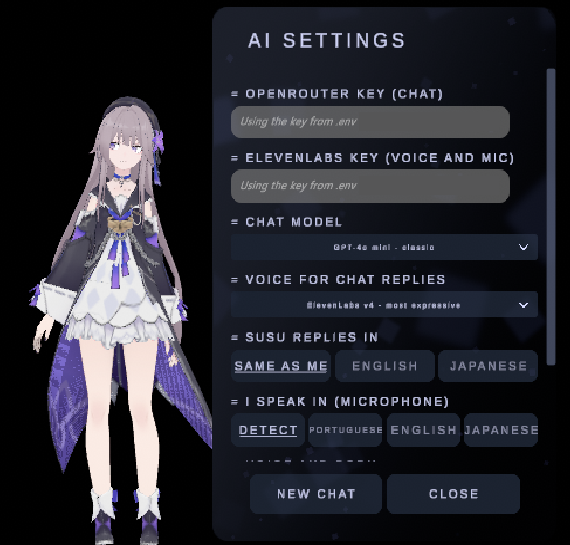
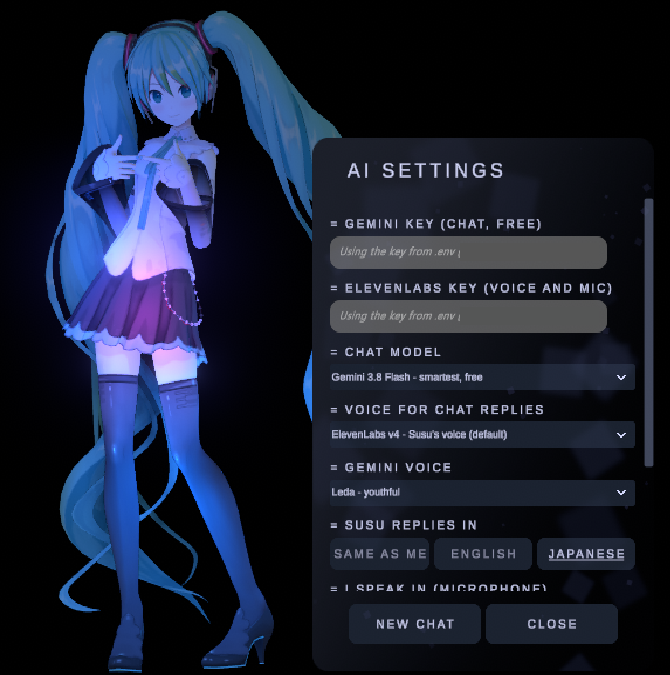
Susu as the Susume Nihongo study buddy, Gemini quota warnings, 1.2.0
- Susu's persona now presents her as the study buddy from Susume Nihongo:
  level-aware teaching, gentle corrections, one-question quizzes and pointers
  to the app's Book, Flashcards, quizzes, Sensei and JLPT practice.
- When a Gemini free-tier quota runs out (chat, voice or microphone) the chat
  shows a warning that says whether it is the daily or per-minute limit and
  what to do.
- README: Susume Nihongo section and the new features; new AI settings image.
- Release build version 1.2.0.

diff --git a/Assets/MateSusu/Scripts/GeminiQuota.cs b/Assets/MateSusu/Scripts/GeminiQuota.cs
@@ -1,0 +1,69 @@
+using System;
+using System.Text.RegularExpressions;
+using UnityEngine;
+
+/// <summary>
+/// Recognises Gemini's "quota exceeded" answers (HTTP 429 / RESOURCE_EXHAUSTED, common on the free tier) and turns
+/// them into a short, friendly warning that says which limit was hit and what to do. The chat window shows it.
+/// </summary>
+public static class GeminiQuota
+{
+    public enum Service { Chat, Voice, Microphone }
+
+    /// <summary>Raised with the warning text whenever a quota is reached (at most once a minute per service and kind).</summary>
+    public static event Action<Service, string> Reached;
+
+    static readonly Regex RetryDelay = new Regex("\"retryDelay\"\\s*:\\s*\"(\\d+(?:\\.\\d+)?)s\"", RegexOptions.Compiled);
+    static string lastKey;
+    static float lastAt = -999f;
+
+    public static bool IsQuotaError(long httpCode, string body) =>
+        httpCode == 429 || (!string.IsNullOrEmpty(body) && body.Contains("RESOURCE_EXHAUSTED"));
+
+    /// <summary>Builds the warning, logs it and raises <see cref="Reached"/>. Returns the warning text.</summary>
+    public static string Report(Service service, string model, string body)
+    {
+        string message = Describe(service, model, body, out string kind);
+        Debug.LogWarning("[Gemini quota] " + message);
+
+        string key = service + kind;
+        if (key != lastKey || Time.unscaledTime - lastAt > 60f)
+        {
+            lastKey = key;
+            lastAt = Time.unscaledTime;
+            Reached?.Invoke(service, message);
+        }
+        return message;
+    }
+
+    /// <summary>The warning text for a quota error body. <paramref name="kind"/> is "day", "minute" or "other".</summary>
+    public static string Describe(Service service, string model, string body, out string kind)
+    {
+        body = body ?? "";
+        string what = service == Service.Chat ? "chat" : service == Service.Voice ? "voice" : "microphone";
+        string name = string.IsNullOrWhiteSpace(model) ? "this model" : model;
+        string alternative = service == Service.Voice
+            ? "choose the ElevenLabs voice in AI settings"
+            : service == Service.Microphone
+                ? "add an ElevenLabs key in AI settings to transcribe with it"
+                : "pick another chat model in AI settings";
+
+        if (body.IndexOf("PerDay", StringComparison.OrdinalIgnoreCase) >= 0)
+        {
+            kind = "day";
+            return $"Gemini's free daily limit for {name} ({what}) is used up. It resets at midnight Pacific time; meanwhile you can {alternative}.";
+        }
+
+        var retry = RetryDelay.Match(body);
+        bool perMinute = body.IndexOf("PerMinute", StringComparison.OrdinalIgnoreCase) >= 0;
+        if (perMinute || retry.Success)
+        {
+            kind = "minute";
+            int seconds = retry.Success ? Mathf.CeilToInt(float.Parse(retry.Groups[1].Value, System.Globalization.CultureInfo.InvariantCulture)) : 60;
+            return $"Too many Gemini requests for {name} ({what}): the free per-minute limit was reached. Try again in about {seconds} seconds.";
+        }
+
+        kind = "other";
+        return $"Gemini's free quota for {name} ({what}) was reached. Wait a little and try again, or {alternative}.";
+    }
+}

diff --git a/Assets/MateSusu/Scripts/SusuChatWindow.cs b/Assets/MateSusu/Scripts/SusuChatWindow.cs
@@ -29,6 +29,7 @@ public class SusuChatWindow : MonoBehaviour
     static readonly Color MineColor = new Color(0.47f, 0.37f, 0.98f, 0.92f);
     static readonly Color HersColor = new Color(1f, 1f, 1f, 0.11f);
     static readonly Color ErrorColor = new Color(0.95f, 0.35f, 0.4f, 0.35f);
+    static readonly Color WarningColor = new Color(1f, 0.72f, 0.2f, 0.32f); // quota and other notices
     static readonly Color ListeningColor = new Color(1f, 0.3f, 0.36f, 1f);
     static readonly Color BusyColor = new Color(1f, 0.78f, 0.25f, 1f);
     static readonly Color IdleColor = new Color(1f, 1f, 1f, 0.9f);
@@ -76,6 +77,7 @@ public class SusuChatWindow : MonoBehaviour
             mic.Problem -= Flash;
         }
         SusuAiSettings.Changed -= UpdateEmptyHint;
+        GeminiQuota.Reached -= OnQuotaReached;
         if (Instance == this) Instance = null;
     }
 
@@ -209,8 +211,20 @@ public class SusuChatWindow : MonoBehaviour
 
     void Fail(Message m, string error)
     {
-        if (m.background != null) m.background.color = ErrorColor;
+        bool quota = SusuChat.Instance != null && SusuChat.Instance.LastErrorWasQuota;
+        if (m.background != null) m.background.color = quota ? WarningColor : ErrorColor;
         SetText(m, error);
+    }
+
+    /// <summary>Gemini voice or microphone ran out of free quota: tell the user in the chat (the chat's own quota
+    /// errors already show up in the reply bubble).</summary>
+    void OnQuotaReached(GeminiQuota.Service service, string message)
+    {
+        if (service == GeminiQuota.Service.Chat || window == null) return;
+        var m = Add(message, false);
+        if (m.background != null) m.background.color = WarningColor;
+        stickToBottom = true;
+        if (!IsOpen) Flash(message);
     }
 
     /// <summary>Forgets the conversation: empties the window and the context sent to the model.</summary>
@@ -463,6 +477,7 @@ public class SusuChatWindow : MonoBehaviour
             mic.Problem += Flash;
         }
         SusuAiSettings.Changed += UpdateEmptyHint;
+        GeminiQuota.Reached += OnQuotaReached;
         UpdateEmptyHint();
 
         Debug.Log("[SusuChat] Chat window ready.");

diff --git a/Assets/MateSusu/Scripts/SusuChat.cs b/Assets/MateSusu/Scripts/SusuChat.cs
@@ -36,6 +36,8 @@ public class SusuChat : MonoBehaviour
     /// <summary>True when there is a key to chat with.</summary>
     public bool HasKey => !string.IsNullOrEmpty(ApiKey);
     public bool IsBusy => current != null;
+    /// <summary>True when the last failed message failed because a Gemini quota was used up.</summary>
+    public bool LastErrorWasQuota { get; private set; }
 
     void Awake()
     {
@@ -106,6 +108,7 @@ public class SusuChat : MonoBehaviour
     IEnumerator ChatRoutine(string message, string systemPrompt, Action<string> onPartial, Action<string> onComplete, Action<string> onError)
     {
         model = SusuAiSettings.ChatModel; // may have been changed in the AI window since the last message
+        LastErrorWasQuota = false;
 
         var contents = new List<OutContent>();
         int start = Mathf.Max(0, history.Count - historyLimit);
@@ -144,6 +147,12 @@ public class SusuChat : MonoBehaviour
             if (req.result != UnityWebRequest.Result.Success || handler.Error != null)
             {
                 string err = handler.Error ?? ExtractError(handler.RawText) ?? req.error;
+                if (GeminiQuota.IsQuotaError(req.responseCode, handler.RawText + " " + handler.Error))
+                {
+                    LastErrorWasQuota = true;
+                    onError?.Invoke(GeminiQuota.Report(GeminiQuota.Service.Chat, model, handler.RawText + " " + handler.Error));
+                    yield break;
+                }
                 Debug.LogWarning($"[SusuChat] Gemini failed ({req.responseCode}): {err}");
                 onError?.Invoke(err);
                 yield break;

diff --git a/Assets/MateSusu/Scripts/SusuChatMic.cs b/Assets/MateSusu/Scripts/SusuChatMic.cs
@@ -241,7 +241,12 @@ public class SusuChatMic : MonoBehaviour
             request = null;
 
             string body = req.downloadHandler.text;
-            if (req.result != UnityWebRequest.Result.Success) { onError?.Invoke($"{req.responseCode} {req.error} {Short(body)}"); yield break; }
+            if (req.result != UnityWebRequest.Result.Success)
+            {
+                if (GeminiQuota.IsQuotaError(req.responseCode, body)) GeminiQuota.Report(GeminiQuota.Service.Microphone, geminiModel, body);
+                onError?.Invoke($"{req.responseCode} {req.error} {Short(body)}");
+                yield break;
+            }
             GeminiReply reply = null;
             try { reply = JsonUtility.FromJson<GeminiReply>(body); } catch (Exception) { }
             if (reply?.candidates == null || reply.candidates.Length == 0 || reply.candidates[0].content?.parts == null)

diff --git a/Assets/MateSusu/Scripts/SusuTTS.cs b/Assets/MateSusu/Scripts/SusuTTS.cs
@@ -283,6 +283,11 @@ public class SusuTTS : MonoBehaviour
                     geminiLegacyShape = true;
                     continue;
                 }
+                if (GeminiQuota.IsQuotaError(code, answer))
+                {
+                    onError?.Invoke(GeminiQuota.Report(GeminiQuota.Service.Voice, geminiModel, answer));
+                    yield break;
+                }
                 string err = $"TTS failed ({code}): {Short(answer)}";
                 Debug.LogWarning("[Gemini TTS] " + err);
                 onError?.Invoke(err);

diff --git a/Assets/MateSusu/Editor/SusuReleaseBuild.cs b/Assets/MateSusu/Editor/SusuReleaseBuild.cs
@@ -16,7 +16,7 @@ using UnityEngine;
 /// </summary>
 public static class SusuReleaseBuild
 {
-    public const string Version = "1.1.0";
+    public const string Version = "1.2.0";
     const string ExeName = "MateSusu.exe";
 
     [MenuItem("Tools/MateSusu/Build Windows Release")]

diff --git a/README.md b/README.md
@@ -1,8 +1,13 @@
 # MateSusu
 
-**MateSusu** is a fork of [Mate Engine](https://github.com/shinyflvre/Mate-Engine) that turns the desktop pet into
-**Susu**, a little companion who talks (in Japanese, with a real voice), chats with you through an LLM, listens
-to your microphone and moves around with ready-made humanoid animations.
+**MateSusu** turns the [Mate Engine](https://github.com/shinyflvre/Mate-Engine) desktop pet into **Susu**, a little
+companion who lives on your screen, talks in Japanese with a real voice, chats with you through Google Gemini,
+listens to your microphone and moves with ready-made animations.
+
+Susu is the study buddy from **[Susume Nihongo](https://susumenihongo.app/)** (進め日本語), the free Japanese learning
+app. MateSusu brings her to your desktop: she keeps you company while you work, teaches you a phrase, quizzes you,
+corrects your Japanese gently and reminds you to keep going. Learn with the Study Book, flashcards and quizzes on
+Susume Nihongo, then practise every day with Susu on your desktop.
 
 **[Download the latest Windows release](https://github.com/klysman08/Mate-Engine/releases/latest)** · everything
 below this section is the original Mate Engine README.
@@ -13,12 +18,23 @@ below this section is the original Mate Engine README.
 | **Voices** | **Auto-talk text over her head** |
 | ![Voices window](docs/matesusu/voices.png) | ![Japanese text over Susu's head](docs/matesusu/balloon.png) |
 
-### What is new
+### Your Japanese study buddy
+
+- **Ask about any word or phrase** and Susu gives you the expression, its reading, the meaning and a tiny example.
+- **Write to her in Japanese**: she praises the try, then gives you the corrected sentence and a short reason.
+- **"Quiz me!"**: one question at a time (vocabulary, kana, kanji, grammar), with cheers or a gentle correction.
+- She keeps it at your level (JLPT N5–N4 by default), mixes in real-life usage and culture, and points you to the
+  right part of Susume Nihongo (Study Book, Flashcards, quizzes, Sensei, JLPT practice) when it helps.
+- A **Japanese phrase deck** in the Voices window: each phrase is spoken with its card (phrase, romaji, meaning).
+- Choose the language **Susu replies in**: write in Portuguese or English and get the answer in Japanese, or let her
+  follow you.
+- The same free **Gemini API key** from Google AI Studio works for both Susume Nihongo and MateSusu.
+
+### Features
 
 **Voice lines** (radial menu → *Voices*)
 - 120+ pre-recorded Japanese lines in one ElevenLabs voice: greetings, breaks and health, study and work, cheering,
-  sweet talk, stories, "About Susu", plus a **Japanese phrase deck** (phrase, romaji and meaning shown as a card).
-- Every line has a matching body motion, and its words are shown as a subtitle in the window.
+  sweet talk, stories, "About Susu" and the Japanese phrase deck, each with matching motions and a subtitle.
 - **Susu talks by herself** every few minutes, and what she says follows the clock: morning, midday, afternoon,
   evening and night favour different topics; meals, greetings and good-nights are said once a day; opening the app
   after a while gets a "good morning" / "welcome back" / "long time no see"; she talks less after midnight.
@@ -26,41 +42,36 @@ below this section is the original Mate Engine README.
 - Lines she says by herself also float **over her head** in Japanese, with a soft shadow.
 
 **Chat** (radial menu → *Chat*)
-- A new chat window: bubbles, a text box, **microphone** (speak, it stops on silence, transcribes and sends) and a
+- Chat window with bubbles, a text box, a **microphone** (speak, it stops on silence, transcribes and sends) and a
   **new chat** button that forgets the conversation.
-- Replies come from **Google Gemini** (free API key from Google AI Studio, no credit card) and are read aloud with
-  Susu's voice. The local LLM was removed.
+- Replies come from **Google Gemini** (free API key, no credit card) and are read aloud with Susu's voice.
 
 **AI settings** (radial menu → *AI*)
 - Paste your **Gemini** and **ElevenLabs** API keys in the app (stored encrypted for your Windows user).
-- Pick the **chat model** (Gemini 3.8 Flash, 3.6 Flash, 3.5 Flash-Lite, 3.1 Flash-Lite, all on the free tier) and the
-  **voice** for replies: ElevenLabs v4 / v4 Turbo (Susu's own voice, default) or Gemini TTS (free) with a choice of
-  Gemini voices.
-- Fix the language **Susu replies in** (write in Portuguese or English, she answers in Japanese) and the language
-  you speak into the microphone.
+- Pick the **chat model** (Gemini 3.8 Flash, 3.6 Flash, 3.5 Flash-Lite, 3.1 Flash-Lite, all on the free tier).
+- Pick the **voice** for replies: ElevenLabs v4 / v4 Turbo (Susu's own voice, default) or **Gemini TTS** (free) with
+  a choice of Gemini voices.
+- Set the language Susu replies in and the language you speak into the microphone.
 - Switch spoken replies, the text over her head and idle motions on or off.
-
-**Models** (radial menu → *Models*)
-- Every VRM in the `SusuModels` folder shows up ready in the Models menu on first launch.
-
-**Custom dances**
-- While Susu performs a custom dance (Dance Player) she neither talks nor plays her own motions, so the dance is
-  never interrupted.
 
 **Motions**
 - Ready-made humanoid clips (KAWAII ANIMATIONS 100, Rokoko mocap, Quaternius UAL2, EmoteBox) played on top of the
   Mate Engine animator.
 - Every voice line has one or more matching motions: a talking gesture followed by a reaction (bow, shy, laugh,
   thumbs up, cheer...).
-- 30 calm **idle motions** (breathing, looking around, stretching, crossing her legs, cute poses...) between lines,
-  so she does not loop the same few idles.
+- Calm **idle motions** (breathing, looking around, stretching, crossing her legs, cute poses...) between lines.
+- **Custom dances** are never interrupted: while one plays, Susu neither talks nor plays her own motions.
+
+**Models** (radial menu → *Settings* → *Models*)
+- Every VRM in the `SusuModels` folder shows up ready in the Models menu on first launch.
 
 ### Setup
 
 1. Download the zip from [Releases](https://github.com/klysman08/Mate-Engine/releases/latest), unzip it and run `MateSusu.exe`.
 2. Right-click the avatar → **AI** and paste your keys:
-   - [Gemini](https://aistudio.google.com/apikey) — chat (free), and optionally the Gemini voices and microphone.
-   - [ElevenLabs](https://elevenlabs.io/app/settings/api-keys) — Susu's voice in chat and microphone transcription.
+   - [Gemini](https://aistudio.google.com/apikey) — chat (free, no credit card), and optionally the Gemini voices
+     and microphone. If you already use Susume Nihongo with Gemini, it is the same key.
+   - [ElevenLabs](https://elevenlabs.io/app/settings/api-keys) — Susu's own voice in chat and microphone transcription.
    The pre-recorded voice lines work without any key.
 3. Optional: rename `env.example.txt` to `.env` next to the exe to set everything in a file (see [`.env.example`](.env.example)).
 
@@ -68,14 +79,16 @@ below this section is the original Mate Engine README.
 
 Unity **6000.2.6f2**. Open the project, then **Tools → MateSusu → Build Motion Library** and
 **Tools → MateSusu → Build Windows Release** (writes `Builds/MateSusu-v<version>/`).
-Voice lines are generated with `Tools/MateSusu/generate_voice_lines_elevenlabs.py`.
+Voice lines are generated with `Tools/MateSusu/generate_voice_lines_elevenlabs.py`. Susu's chat personality is in
+[`Assets/MateSusu/Resources/SusuPersona.txt`](Assets/MateSusu/Resources/SusuPersona.txt).
 
 ### Credits and licences
 
 - Mate Engine by [shinyflvre](https://github.com/shinyflvre/Mate-Engine) — Mixed GNU AGPL v3 & MateProv2 licence
   ([LICENSE.md](LICENSE.md)). MateSusu is free, non-commercial and its full source is in this repository.
 - Animation credits: [`Assets/MateSusu/Animations/CREDITS.md`](Assets/MateSusu/Animations/CREDITS.md). Packs whose
-  licences allow personal use only (VRSuya, Chiu poses) are not in the repository or in the release.
+  licences allow personal use only (VRSuya, Chiu poses) are not in the repository or in the release; the KAWAII
+  ANIMATIONS 100 source files (Unity Asset Store) are not in the repository either, only inside the release build.
 
 ---
 
